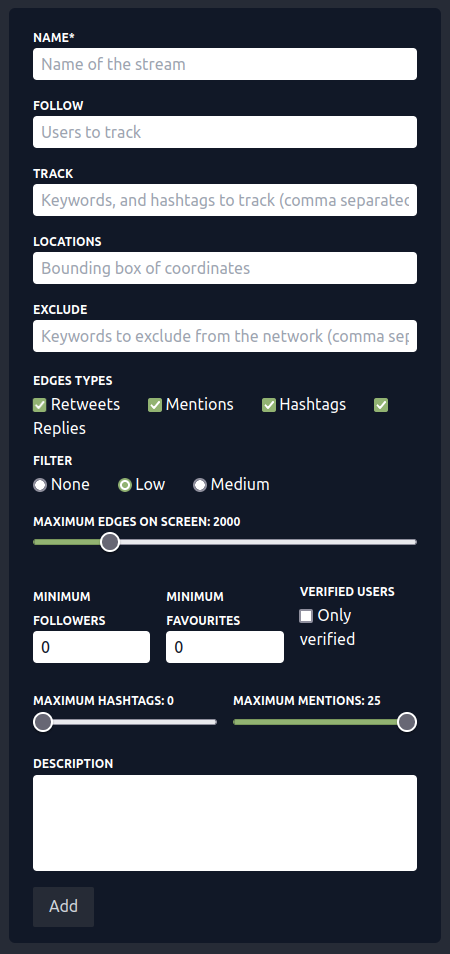
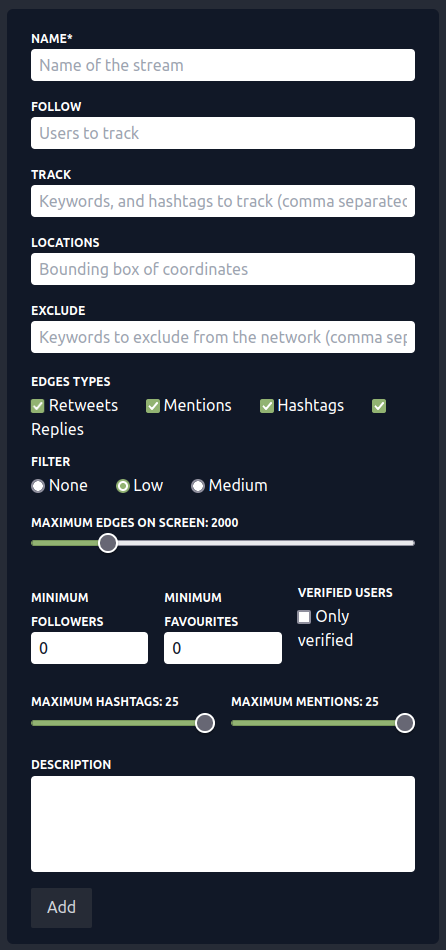
stream documented

diff --git a/docs/stream.md b/docs/stream.md
@@ -1,7 +1,13 @@
 # Stream
 
-Guide to adding or updating a stream; bothe interface
+Guide to adding or updating a stream; both interface
 are identical.
+
+:::info
+
+Streams can be edited when paused.
+
+:::
 
 ![Add or update a stream](../static/img/stream.png)
 
@@ -38,3 +44,20 @@ sense of what is visualised.
     are colored differently in the graph.
   - __Replies__: I tweet `Something about your keyword` and `@you` reply
     to the tweet draws an edge between me and `@you`.
+
+- __Maximum edges on screen__: The maximum number of edges that can
+be visible on the graph before oldest edges start being removed. 
+This is important for performances, this graph is help in memory
+and sent via WebSocket to users who join the stream so all concurrent 
+users should see the same graph.
+- __Minimum followers__: Minimum number of followers the author of 
+the tweet must have made.
+- __Minimum favourites__: Minimum number of favourites a tweet should
+have to be considered for the graph.
+- __Maximum hashtags__: A very useful filter to remove noise and bots
+from your graphs. This will filter out any tweets that include more than
+the set number of hashtags.
+- __Maximum mentions__: Maximum number of `@mention` in a tweets,
+similar as the above filter, it is very useful to remove noise and bots.
+- __Description__: Description of the stream, this is made visible
+to users who visit the stream.

diff --git a/docs/terminology.md b/docs/terminology.md
@@ -1,0 +1,9 @@
+# Terminology
+
+- __edge__: An edge is effectively a line between two nodes.
+This represent a connection, the nature of this connection
+will depend on the stream setup.
+- __node__: A point on the graph, this is either a 
+<span style='color:#FF9E00;'>user</span> or a
+<span style='color:#9D4EDD;'>hashtag</span>
+- __graph__: A network of nodes and edges.

diff --git a/docs/install.md b/docs/install.md
@@ -27,8 +27,8 @@ Alternatively build from source, clone.
 git clone https://github.com/devOpifex/skeef.git
 ```
 
-Then run make to produce the binaries
+Then run make or go build to produce the binaries
 
 ```
-make
+go build
 ```
